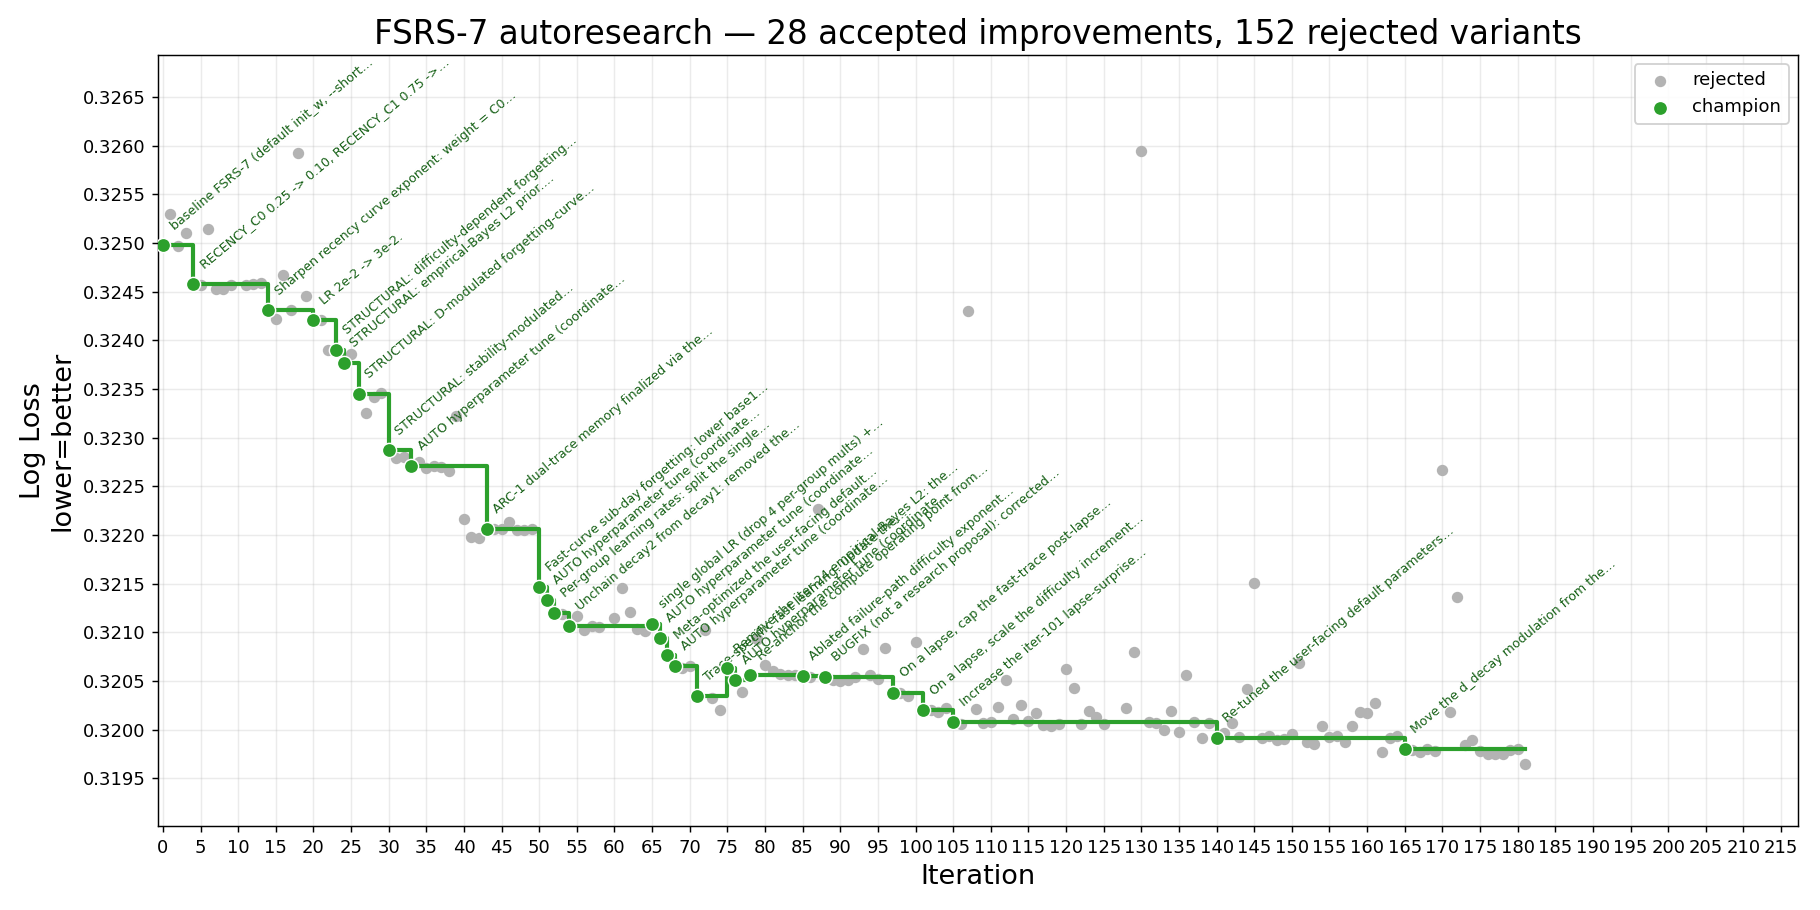
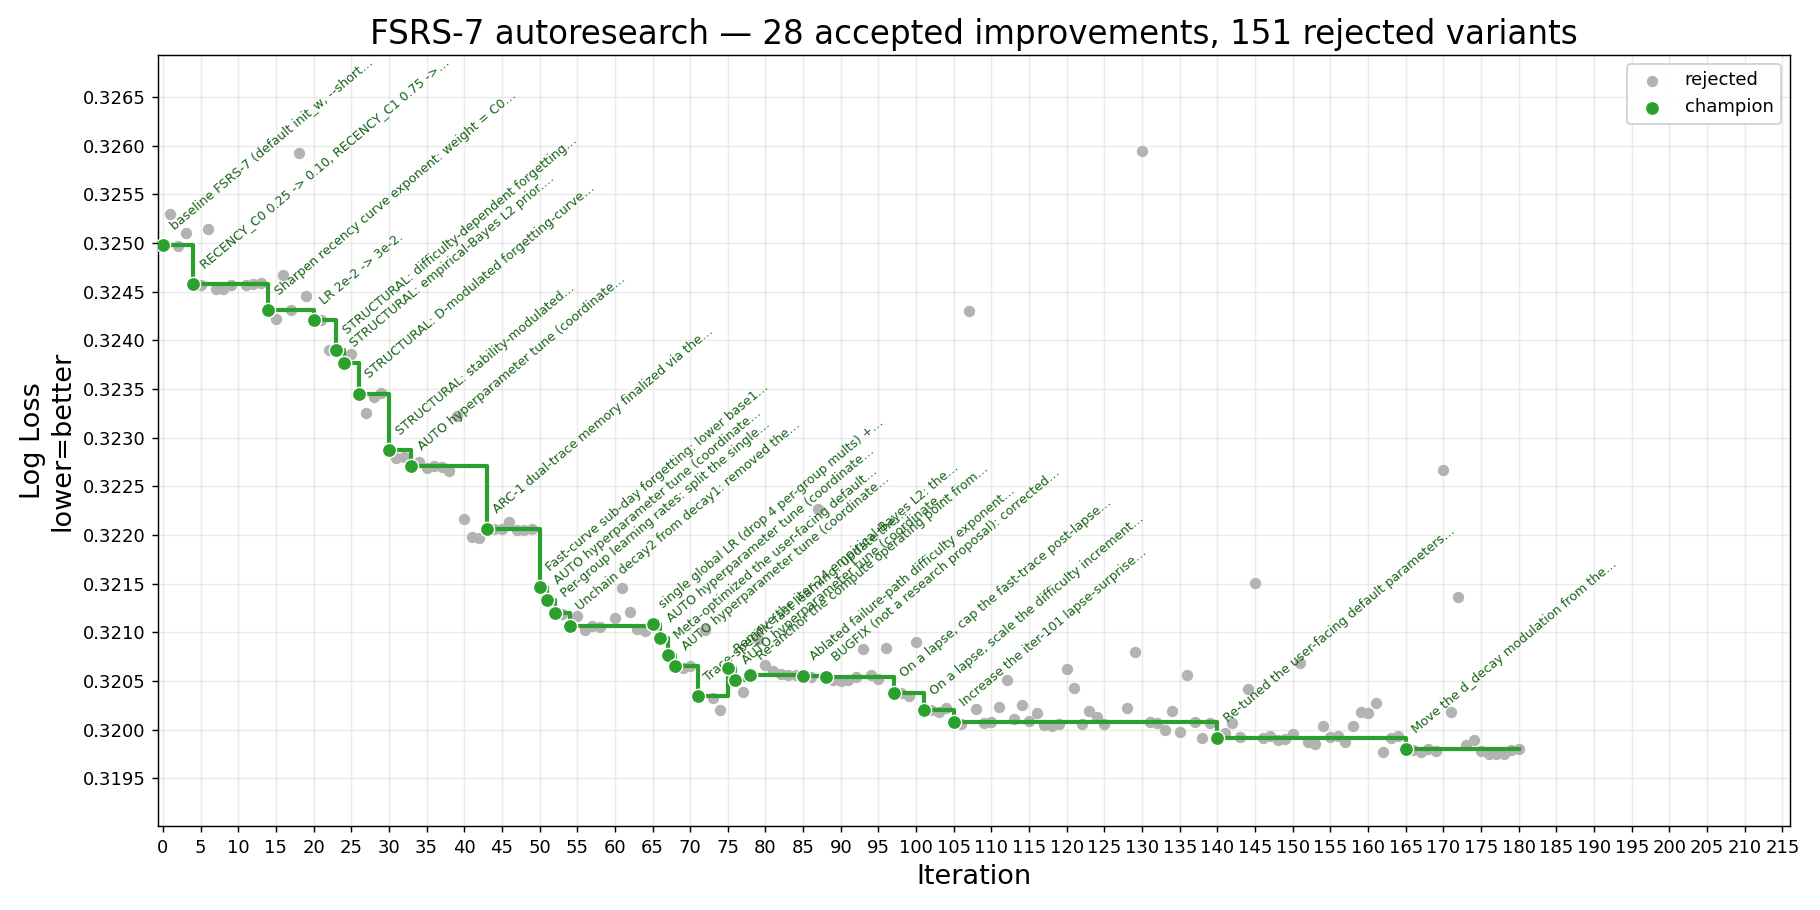
un-record the vetoed composite run (user call: skip it, no history entry)
history.jsonl/md/plot back to 180 records; next real iteration is 181.
CLAUDE.md one-idea rule kept, iteration citation removed.

diff --git a/result/history.md b/result/history.md
@@ -1,6 +1,6 @@
 # FSRS-7 autoresearch — iteration history
 
-_181 record(s). Generated from `history.jsonl` — do not edit by hand._
+_180 record(s). Generated from `history.jsonl` — do not edit by hand._
 
 | # | Time (UTC) | Thresh. | LL before | LL after | Δ LL | Cx before | Cx after | Δ Cx % | Status | Summary |
 |--:|---|---:|---:|---:|---:|---:|---:|---:|---|---|
@@ -184,4 +184,3 @@ _181 record(s). Generated from `history.jsonl` — do not edit by hand._
 | 178 | 2026-06-10T06:35:41 | 0.0010 | 0.31980 | 0.31975 | +0.00006 | 17,631 | 17,690 | +0.33% | rejected | n_before fatigue clock on the long curve component, exp(K*n/(n+300)); K swept over 0.15/0.3/0.6. |
 | 179 | 2026-06-10T06:46:02 | 0.0010 | 0.31980 | 0.31979 | +0.00001 | 17,631 | 17,742 | +0.63% | rejected | Encoding fatigue: long-trace success stability increment scaled by exp(-K2*n/(n+300)); K2 swept 0.15/0.3/0.6. |
 | 180 | 2026-06-10T07:18:42 | 0.0001 | 0.31980 | 0.31980 | +0.00000 | 17,690 | 17,690 | +0.00% | rejected | AUTO hyperparameter tune (coordinate descent over training hyperparameters (LR/betas/L2/recency C0+EXP)): best candidate none. |
-| 181 | 2026-06-10T07:37:29 | 0.0001 | 0.31980 | 0.31964 | +0.00016 | 17,690 | 17,955 | +1.50% | rejected | Composite of mapped shavings: Hard-surprise coef 2.0, unified short d-clock, D-dependent fast-init frac, SWA (0.15, 0.75). |

diff --git a/CLAUDE.md b/CLAUDE.md
@@ -698,9 +698,10 @@ and "change the forgetting curve" are two proposals, not one. "Replace Adam
 with NAdam" and "add cosine annealing" are two proposals. In particular,
 **bundling several individually-mapped sub-threshold changes into one
 "composite" iteration so they clear the bar together is NOT allowed**, even
-when each component's solo delta is already attributed in history — iter-181
-tried exactly that (4 mapped shavings, measured +1.6e-4, would have cleared
-the bar) and was vetoed by the user on methodology. The hp_tune multi-knob
+when each component's solo delta is already attributed in history — tried
+once (2026-06-10: a 4-shaving composite measured +1.6e-4, enough to clear
+the bar) and still vetoed on methodology, unrecorded per the user's call.
+The hp_tune multi-knob
 pass stays sanctioned: it tunes numeric hyperparameters only, never bundles
 formula changes. Each iteration tests **one** change against the threshold
 + complexity gate so we can attribute the delta cleanly.
